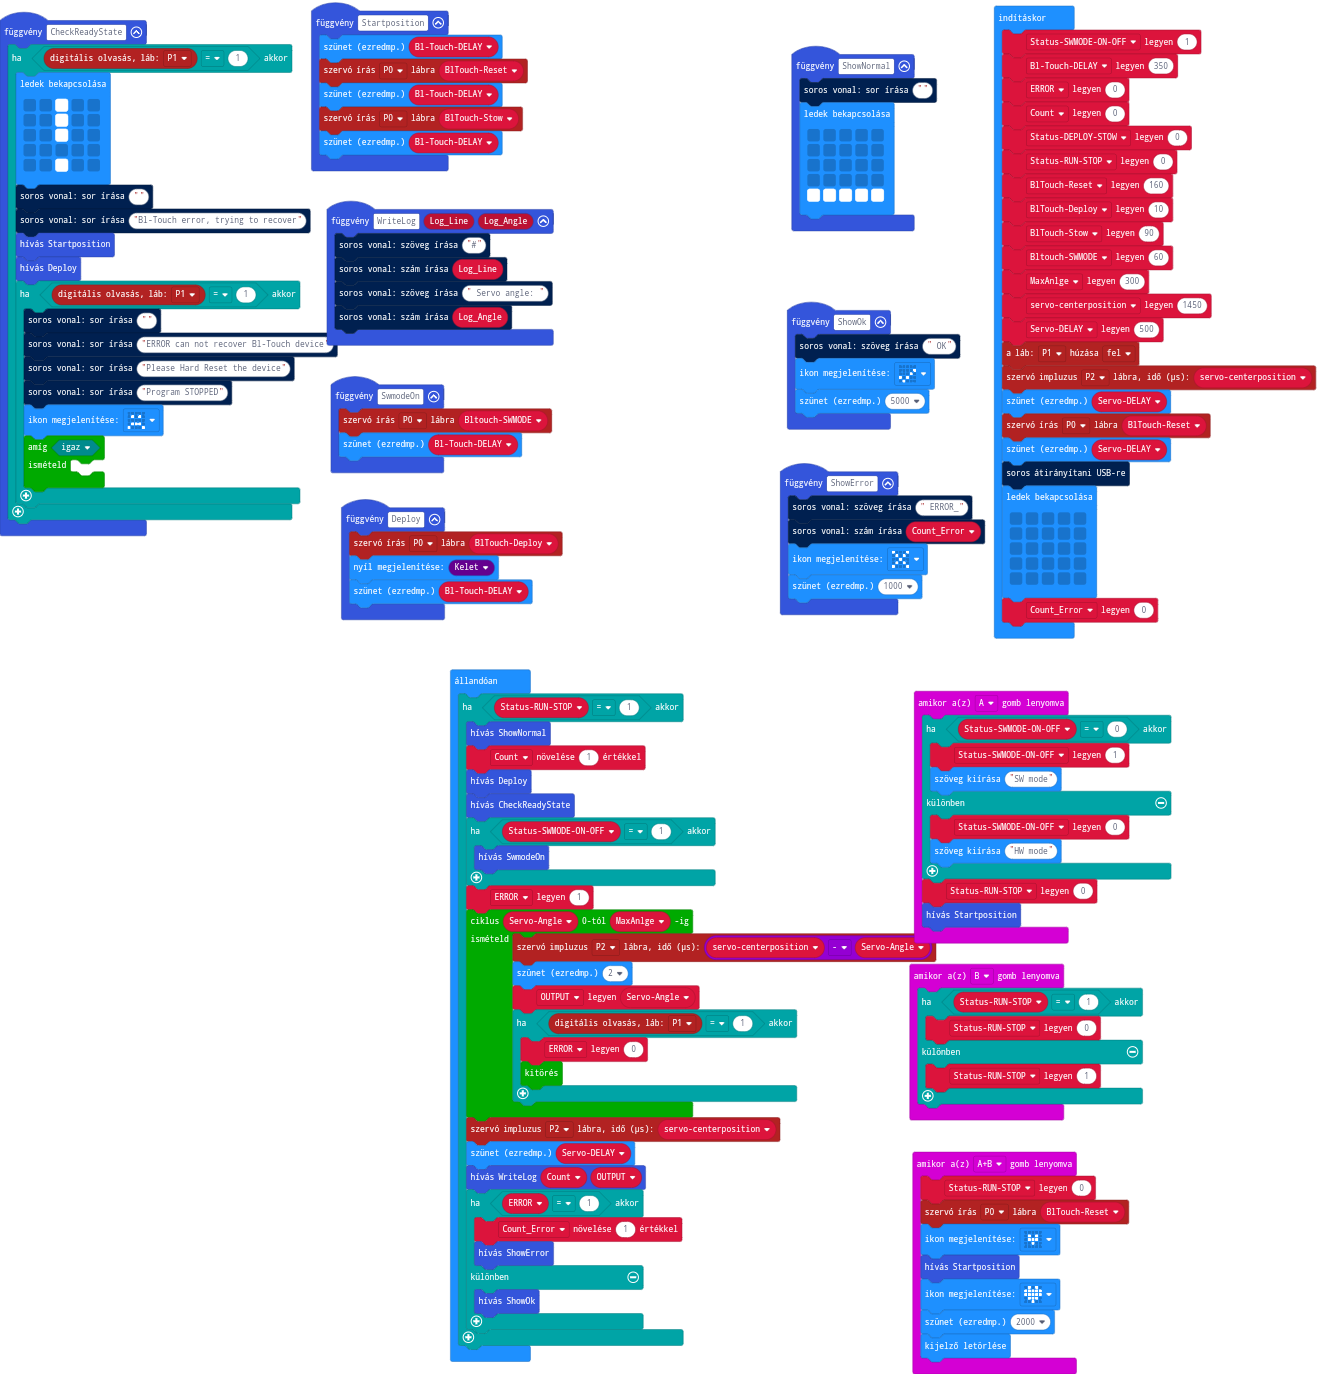
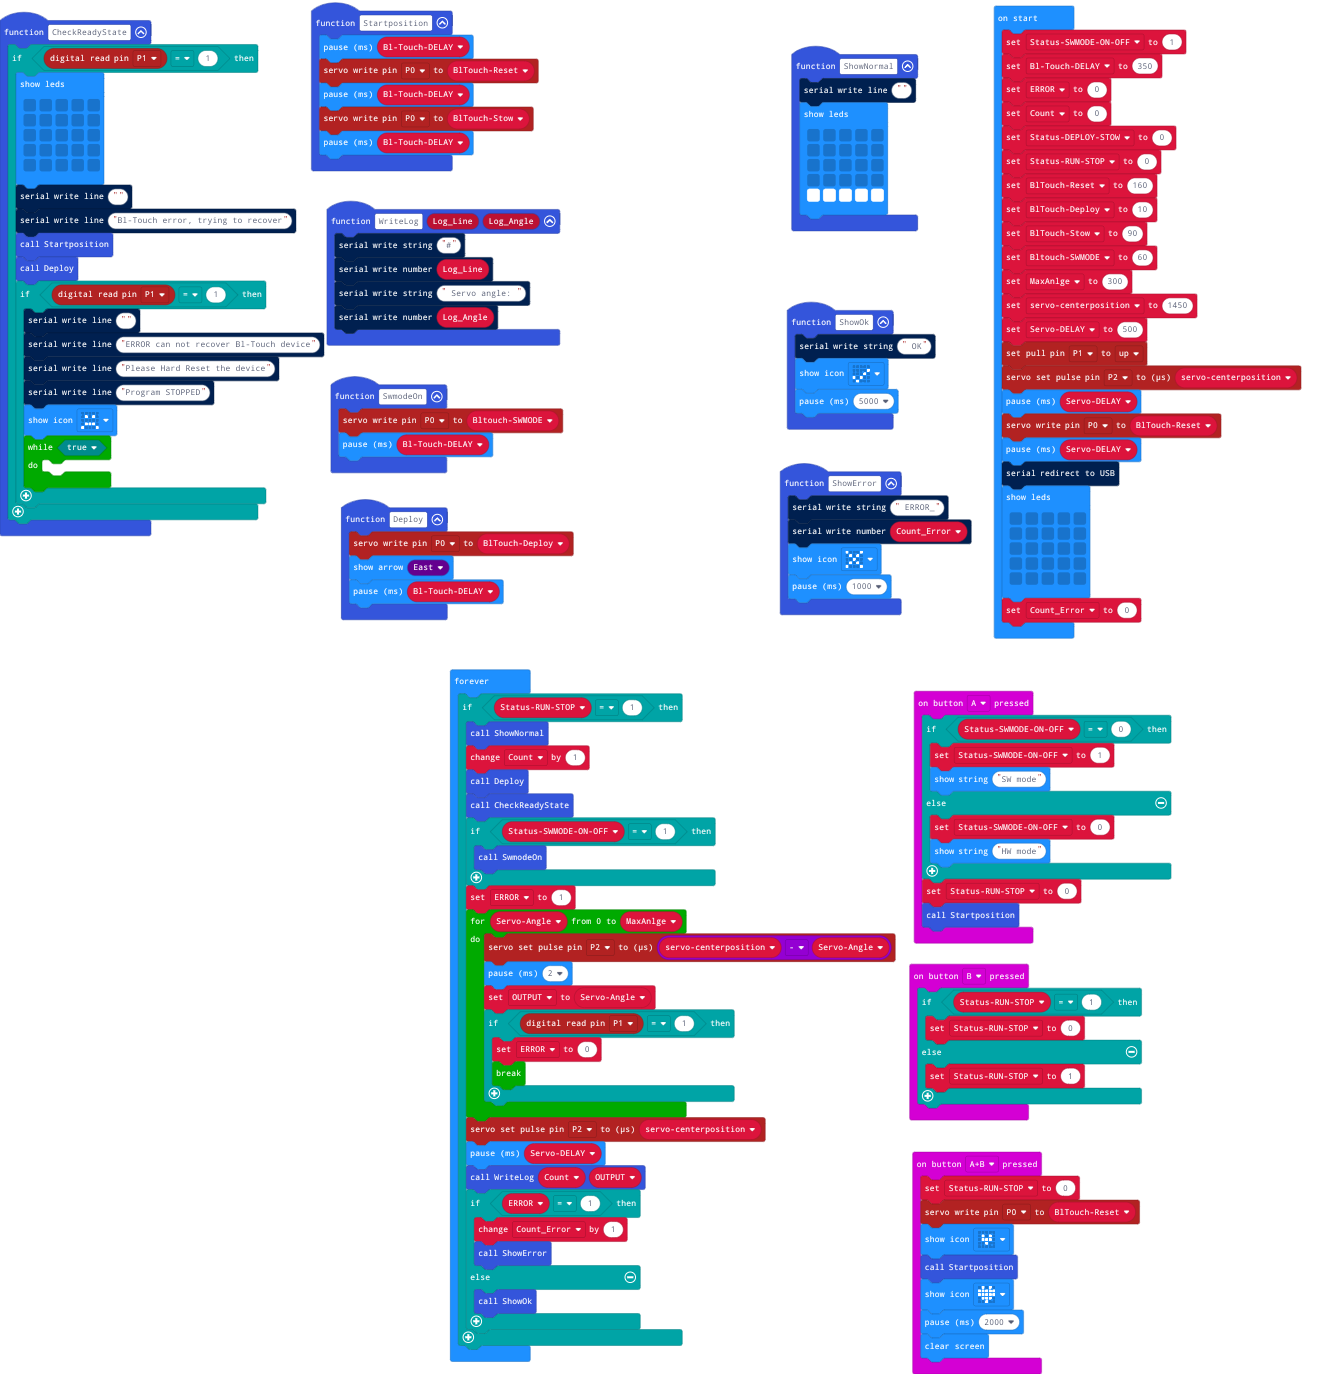
Update main.blocks, main.ts

diff --git a/main.ts b/main.ts
@@ -18,11 +18,11 @@ function ShowNormal () {
 function CheckReadyState () {
     if (pins.digitalReadPin(DigitalPin.P1) == 1) {
         basic.showLeds(`
-            . . # . .
-            . . # . .
-            . . # . .
             . . . . .
-            . . # . .
+            . . . . .
+            . . . . .
+            . . . . .
+            . . . . .
             `)
         serial.writeLine("")
         serial.writeLine("Bl-Touch error, trying to recover")
